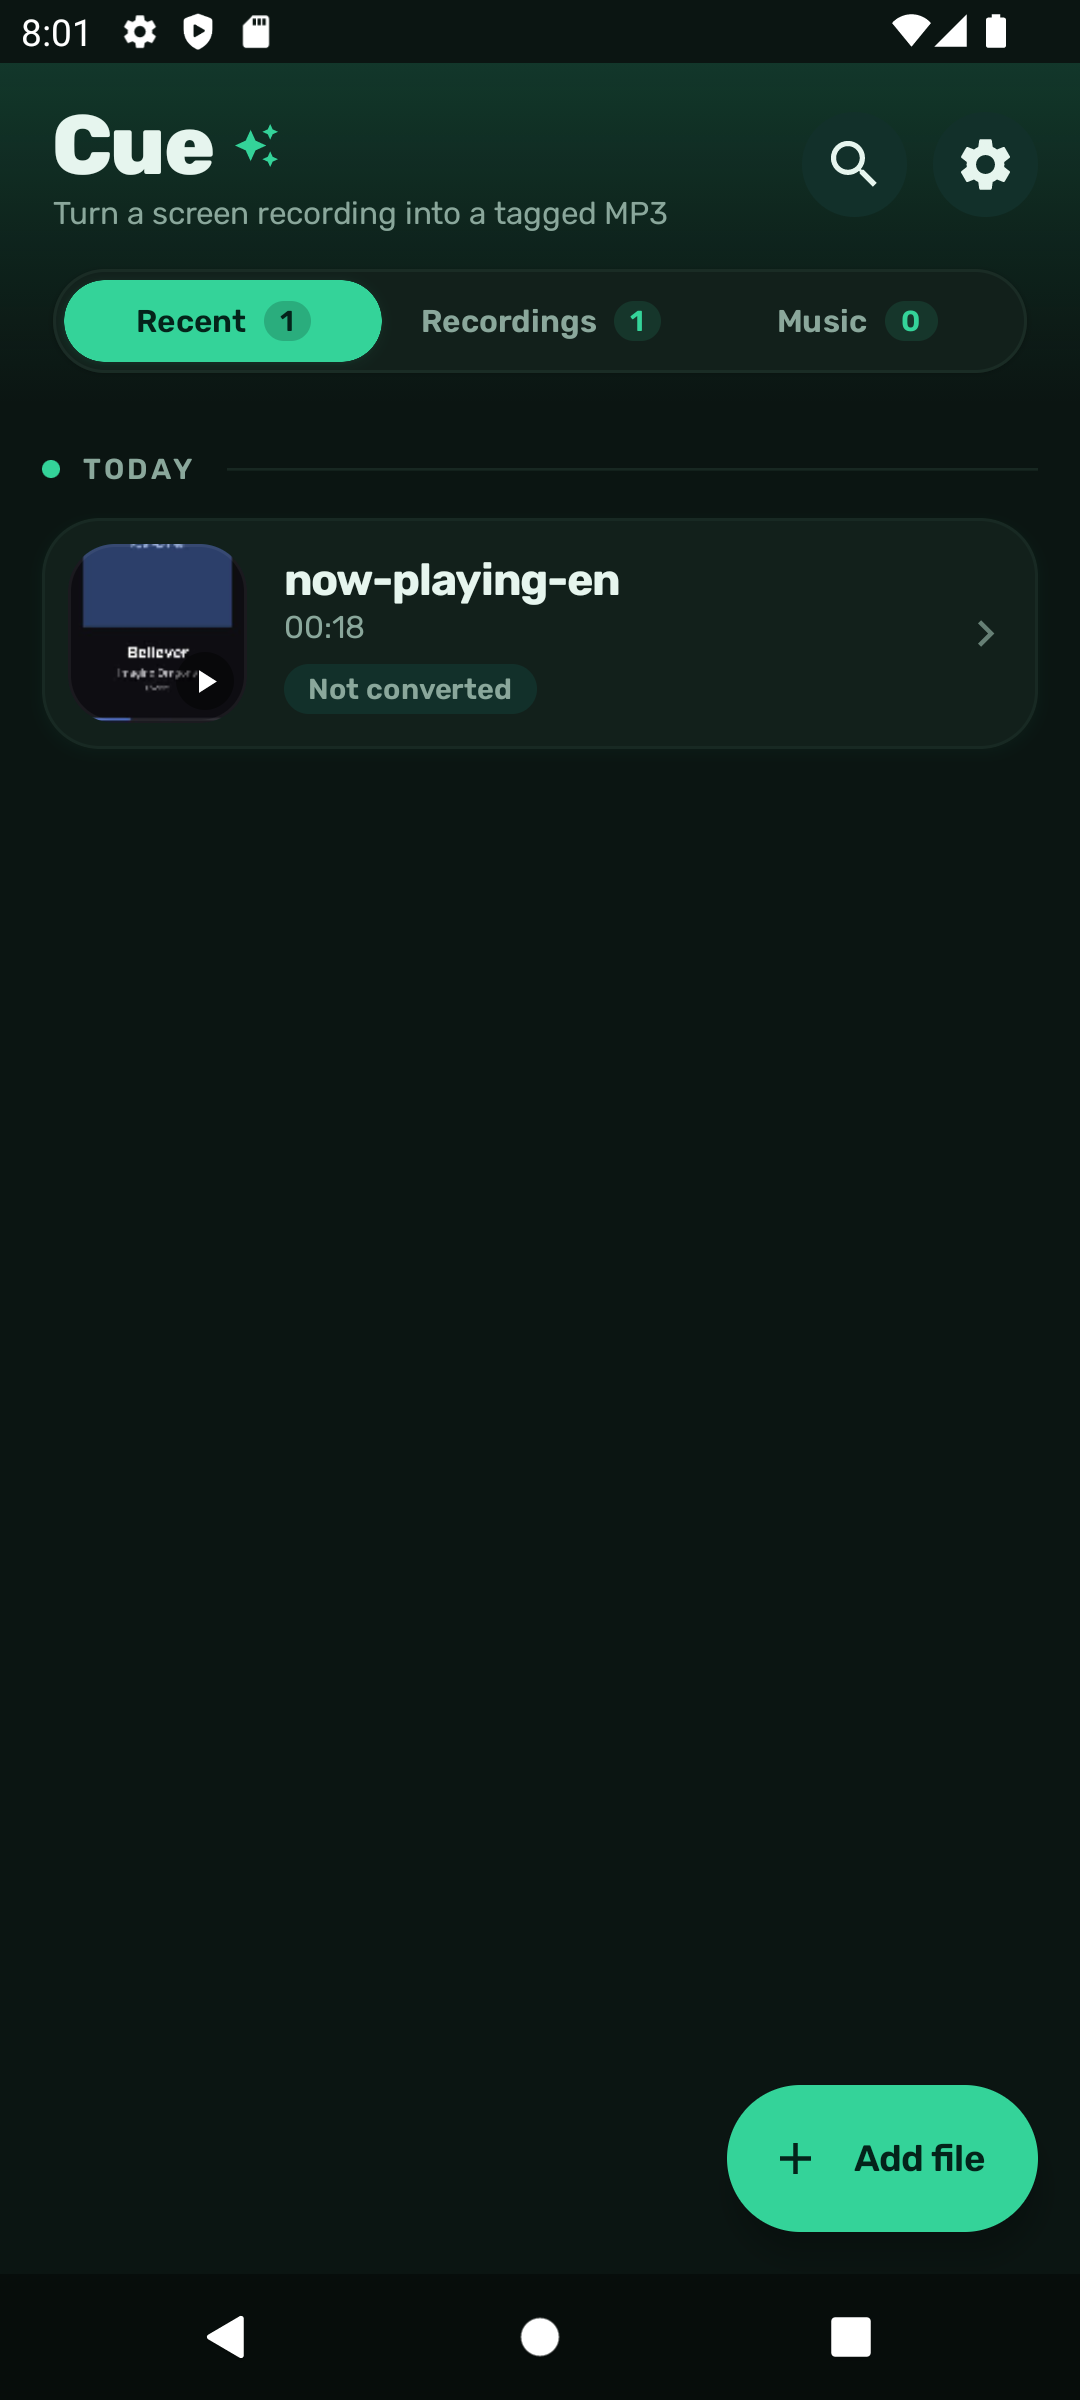
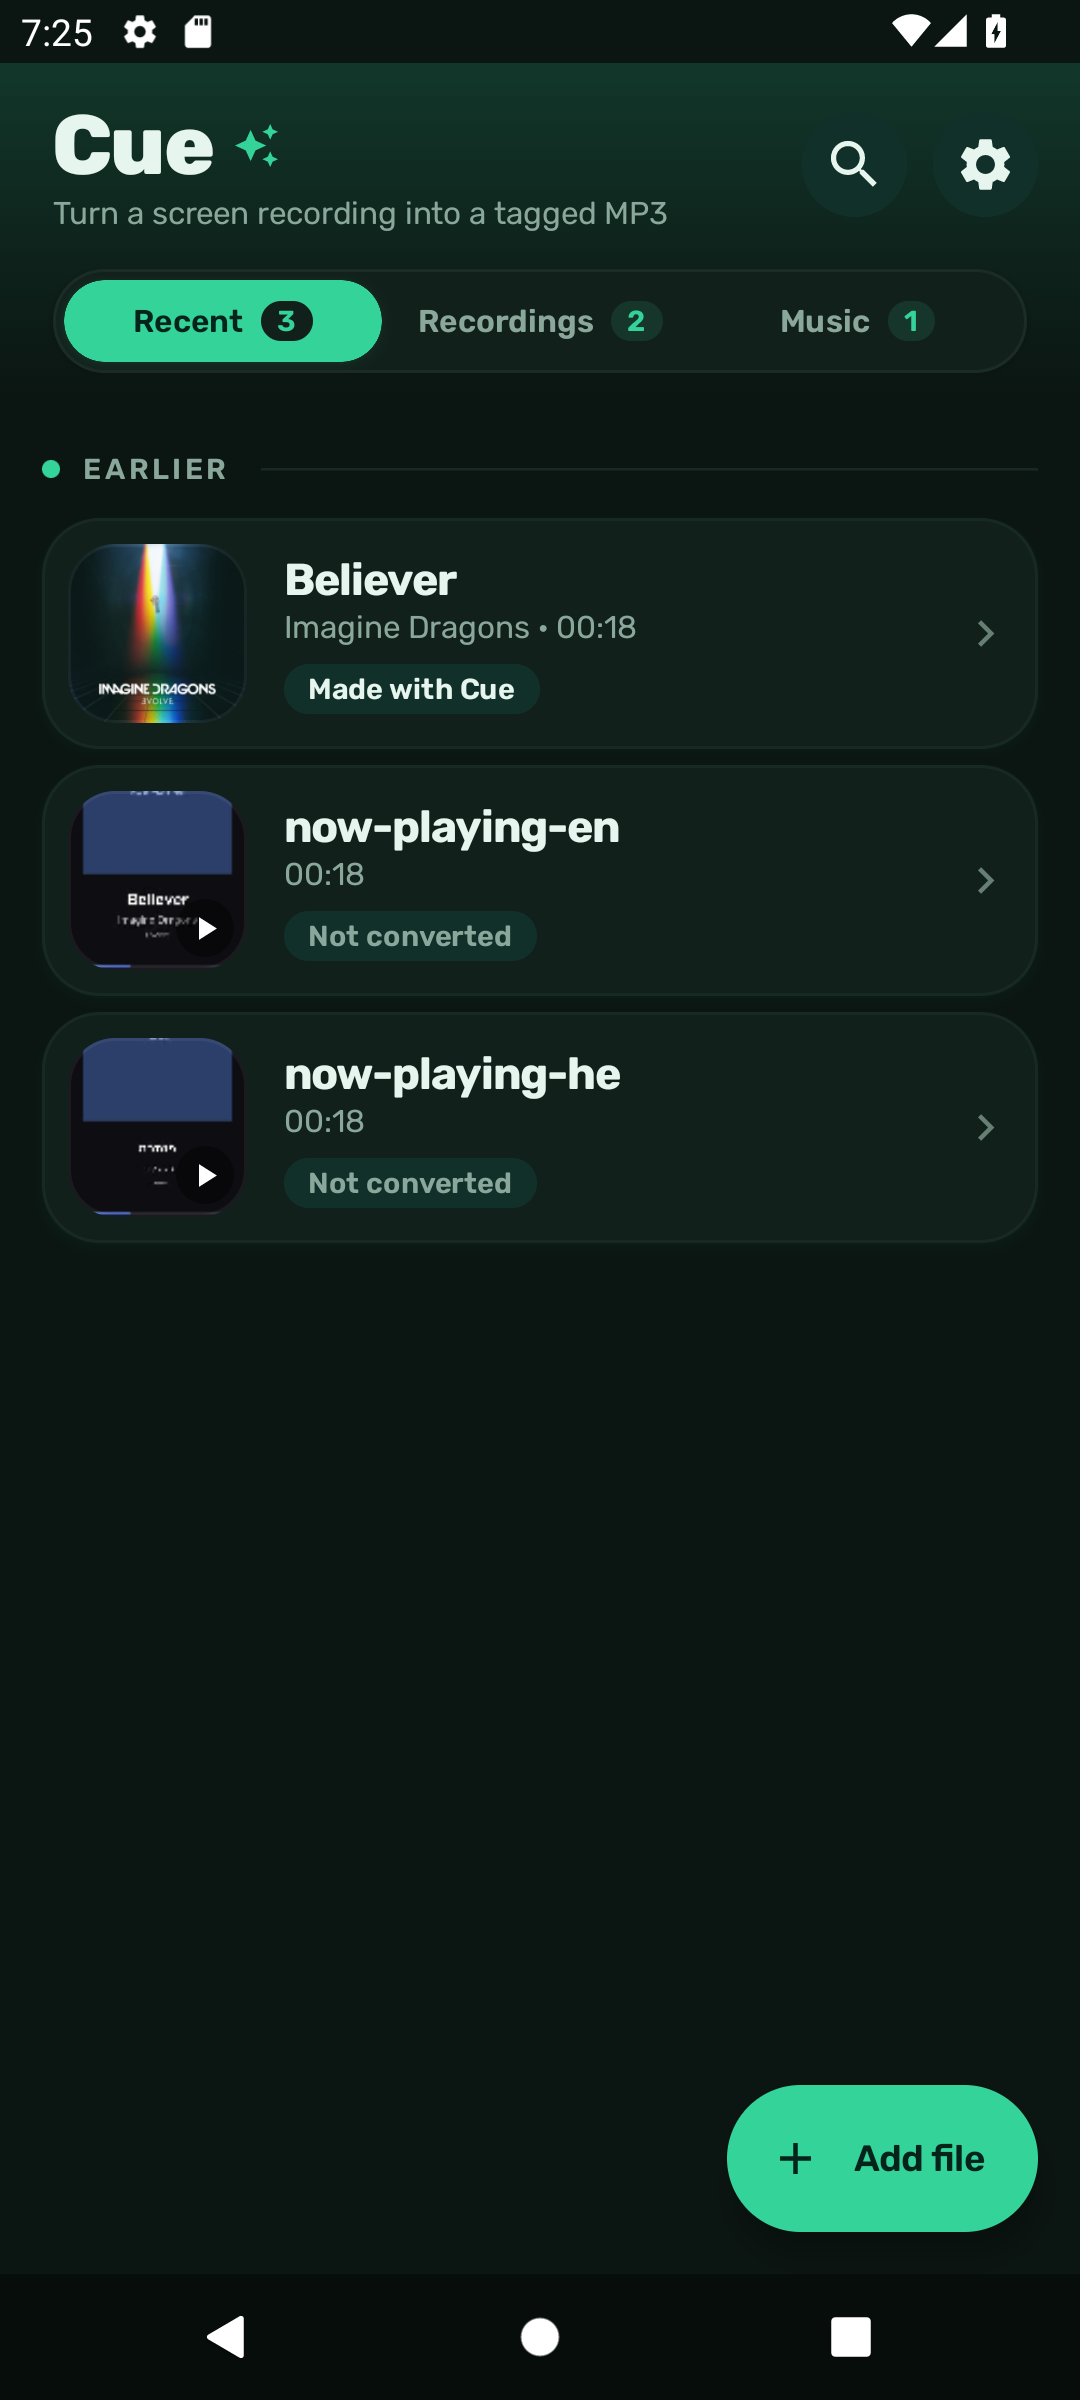
Refine tab badges and theme-aware header wash
Selected count badges now use the surface colour so they stay legible on bright dark-mode primaries; the header wash picks its strength from the resolved background luminance rather than the system setting. Refresh the home screenshots with the richer library and record the polish pass in the redesign plan.

diff --git a/app/src/main/java/io/github/rpn17m2g/cue/ui/screens/HomeScreen.kt b/app/src/main/java/io/github/rpn17m2g/cue/ui/screens/HomeScreen.kt
@@ -22,7 +22,6 @@ import androidx.compose.foundation.ExperimentalFoundationApi
 import androidx.compose.foundation.Image
 import androidx.compose.foundation.background
 import androidx.compose.foundation.border
-import androidx.compose.foundation.isSystemInDarkTheme
 import androidx.compose.foundation.layout.Arrangement
 import androidx.compose.foundation.layout.Box
 import androidx.compose.foundation.layout.Column
@@ -83,6 +82,7 @@ import androidx.compose.ui.focus.focusRequester
 import androidx.compose.ui.graphics.Brush
 import androidx.compose.ui.graphics.Color
 import androidx.compose.ui.graphics.asImageBitmap
+import androidx.compose.ui.graphics.luminance
 import androidx.compose.ui.layout.ContentScale
 import androidx.compose.ui.platform.LocalContext
 import androidx.compose.ui.res.stringResource
@@ -226,8 +226,9 @@ private fun HomeContent(
         },
     ) { padding ->
         val background = MaterialTheme.colorScheme.background
+        val darkBackground = background.luminance() < 0.5f
         val washTop = MaterialTheme.colorScheme.primary.copy(
-            alpha = if (isSystemInDarkTheme()) 0.18f else 0.12f,
+            alpha = if (darkBackground) 0.18f else 0.12f,
         )
         Column(
             modifier = Modifier
@@ -500,15 +501,11 @@ private fun CountBadge(count: Int, selected: Boolean) {
     Surface(
         shape = CircleShape,
         color = if (selected) {
-            MaterialTheme.colorScheme.onPrimary.copy(alpha = 0.22f)
+            MaterialTheme.colorScheme.surface
         } else {
             MaterialTheme.colorScheme.primary.copy(alpha = 0.12f)
         },
-        contentColor = if (selected) {
-            MaterialTheme.colorScheme.onPrimary
-        } else {
-            MaterialTheme.colorScheme.primary
-        },
+        contentColor = MaterialTheme.colorScheme.primary,
     ) {
         Text(
             text = count.toString(),

diff --git a/docs/UI-REDESIGN-PLAN.md b/docs/UI-REDESIGN-PLAN.md
@@ -1,7 +1,9 @@
 # Cue — UI redesign & palette plan
 
 Status: implemented. Phases A–E are merged on `dev` and verified on the SM-S911B;
-Phase F (docs, screenshots, artefact cleanup) is in progress.
+Phase F (docs, screenshots, artefact cleanup) is in progress. A visual polish
+pass (Rubik type scale, card gallery rows, hero glow, saved-song hero) is on
+`feat/ui-polish`, verified on the API 31 emulator in light and dark.
 Owner: Omer Gindi (`RPN17M2G`).
 Related: `docs/PLAN.md` (design source of truth), `docs/ADR/0007-fixed-palette-themes.md`.
 
